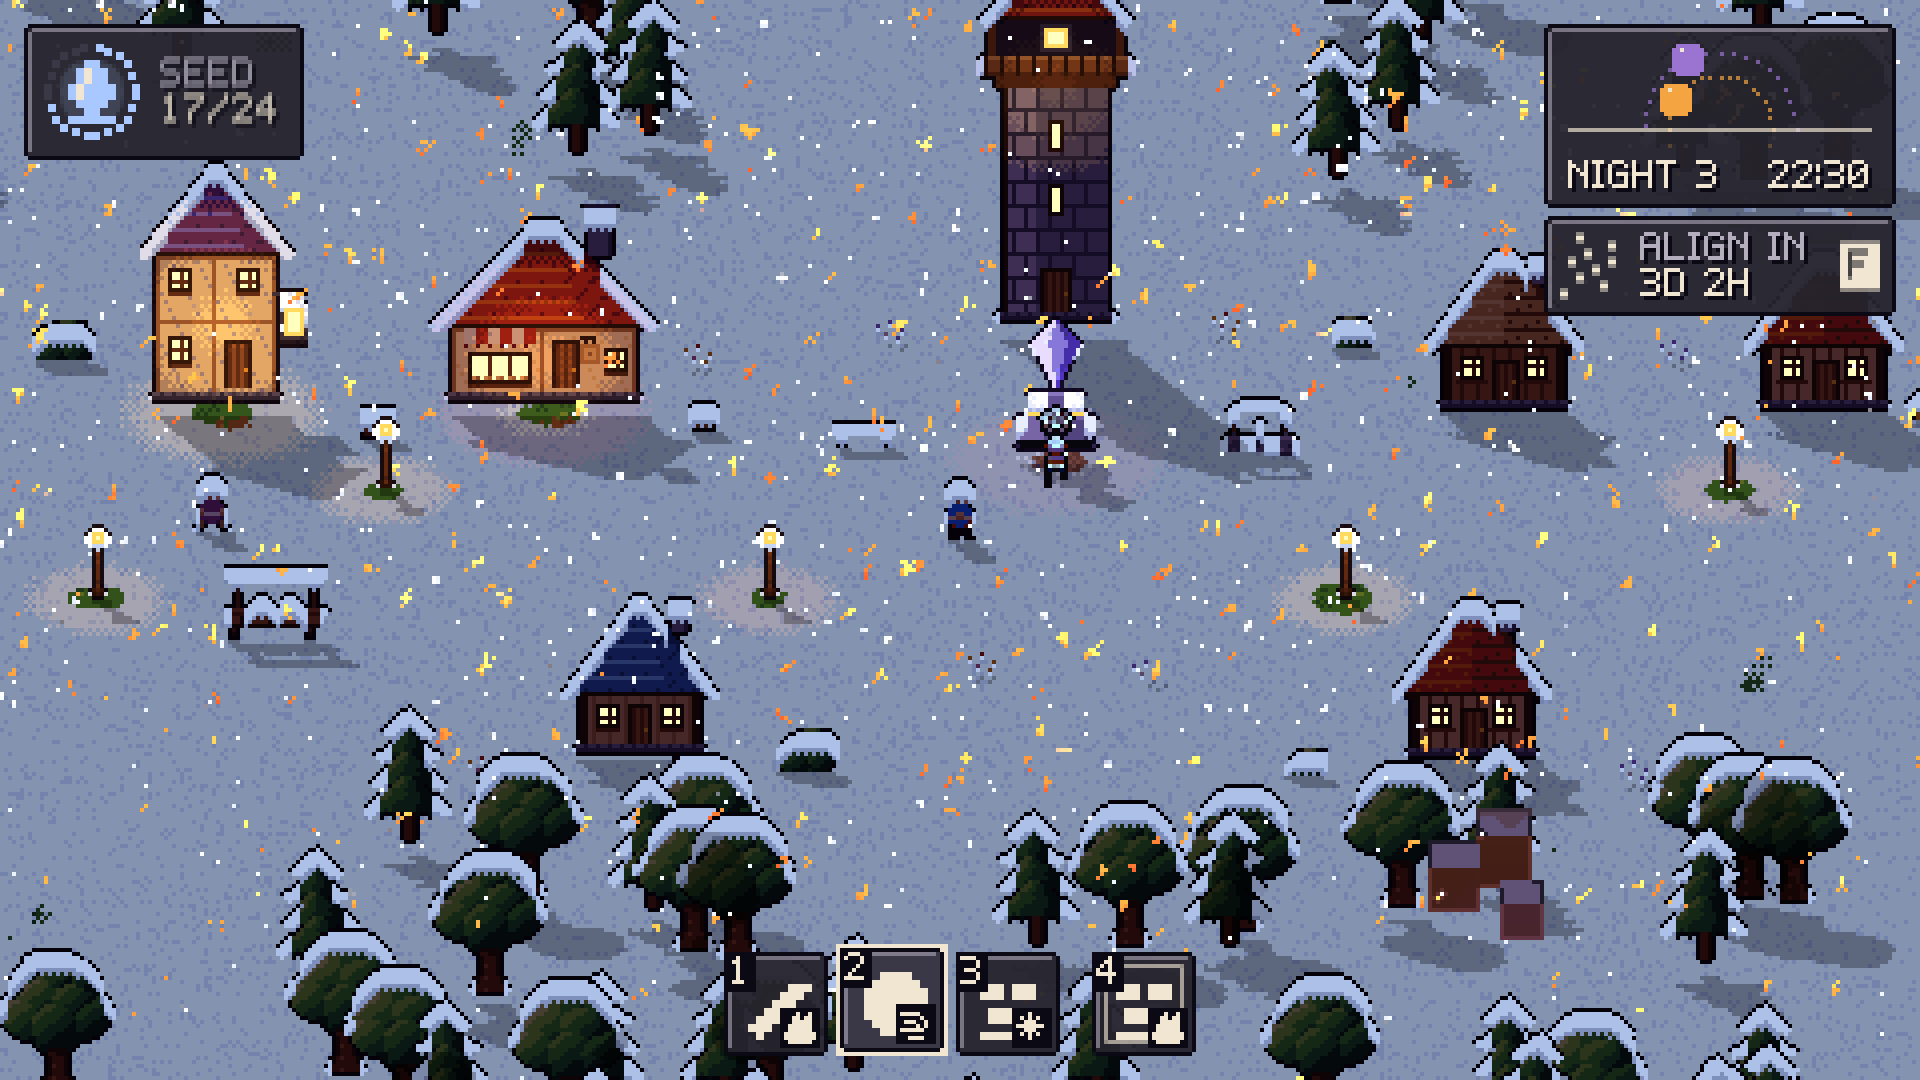
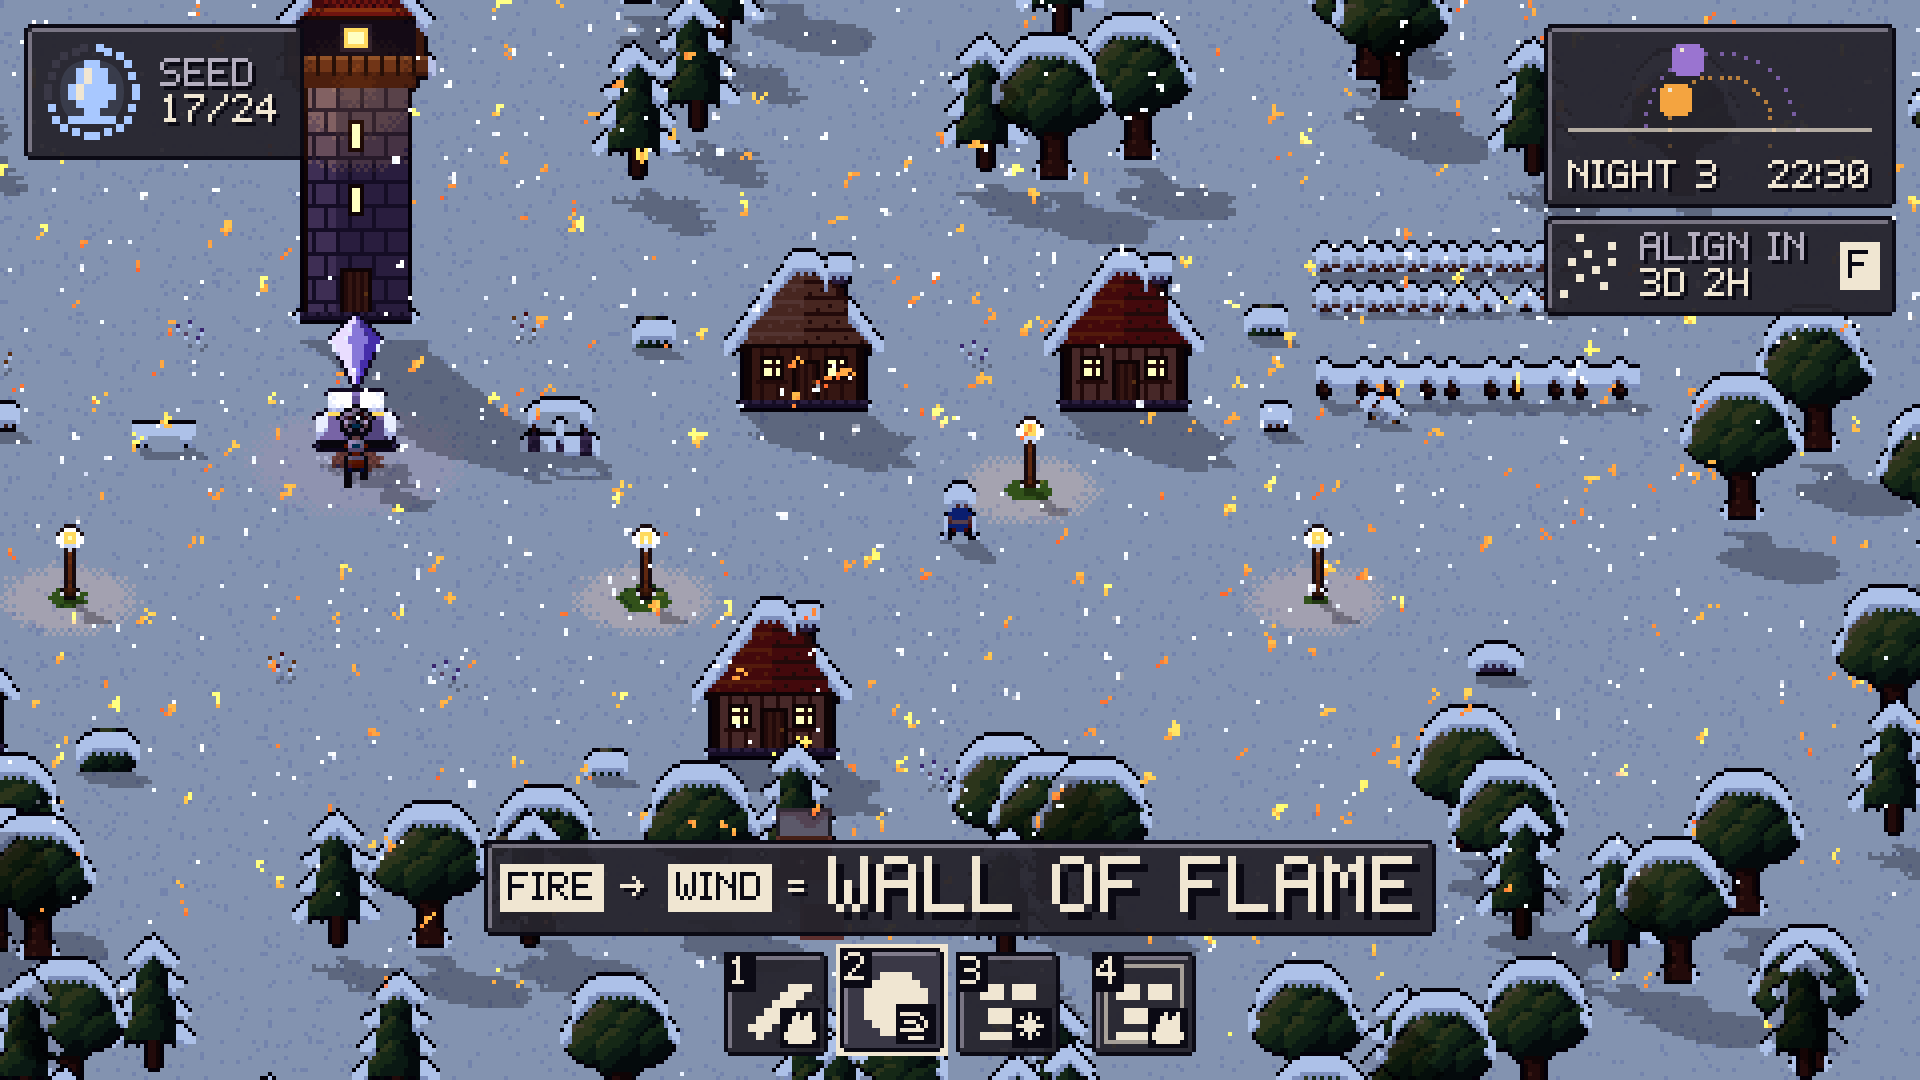
In-game UI: the HUD as the scene's crisp layer, painted after the pixel pass at the view's resolution; checked on Paul's real window (town, Play) and at 1920x1080

diff --git a/docs/game-ui.md b/docs/game-ui.md
@@ -150,11 +150,12 @@ Decisions made while building:
 - The scene's `pixel` draws the whole picture, HUD included, at 1/pixel. So the pixel HUD lives on the world's own
   art-pixel grid: one cell = one art pixel, a 5 × 7 cell font instead of VT323, every box an even number of art
   pixels and every placed box snapped, so nothing is centred on half a pixel and smeared.
-- The HUD is sized from the reference picture (1080 px high = 270 cells), so it covers the same share of the
-  screen at any size. The pixel cell stays one art pixel as the picture is really drawn (the scene's `pixel` over
-  the view's zoom); when the HUD must be smaller than that allows (the editor's scene view at zoom 0.71 on a 1x
-  screen: a 226 px wide picture), its cell counts shrink and it switches to a compact 3 × 5 cell font, a slot shows
-  its shape alone, and "NIGHT 3" reads "N3". Stills: `scene-view-908x510.png`, `play-1920x1080.png`.
+- The HUD is the scene's **crisp layer** (`style.crisp`, engine crates/editor view.rs): a pixel scene's world is drawn
+  at 1/pixel and scaled up, and the HUD is painted after that, at the view's own resolution, so its type is never
+  quantised or filtered. Its pixel-look cell is a whole number of the view's pixels (2 in the editor's scene view at
+  zoom 0.65 on Paul's 1x screen, 4 at 1920 × 1080), sized from the 1080-high reference (270 cells), always the 5 × 7
+  face. Verified on Paul's real window (`screencapture -l`): `paul-window-town.png`, `paul-window-play.png`;
+  `play-1920x1080.png`.
 - The dial and the chip sit top-right, stacked at one width: the top centre stays clear for the world (the
   watchtower) and the banner.
 - Ink is ink on warm paper: a heavy outer line and a thin inner one, Archivo Black, vector line-art icons (rounded
